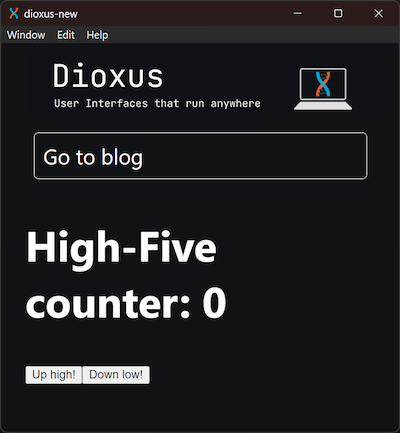
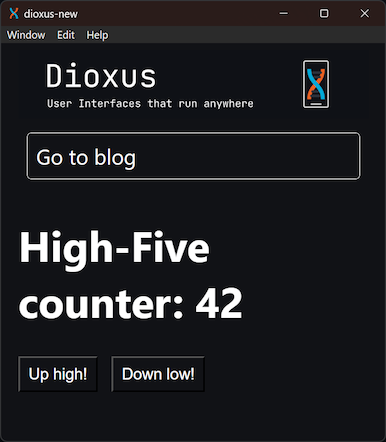
Button style fix, first attempt.

diff --git a/assets/main.css b/assets/main.css
@@ -42,3 +42,15 @@ h1 h2 h3 h4 h5 h6 {
 #header {
     max-width: 1200px;
 }
+
+button {
+    color: white;
+    background-color: #111216;
+    padding: 8px 10px;
+    font-size: large;
+    margin-right: 1rem;
+}
+
+button:hover {
+    background-color: #1f1f1f;
+}
